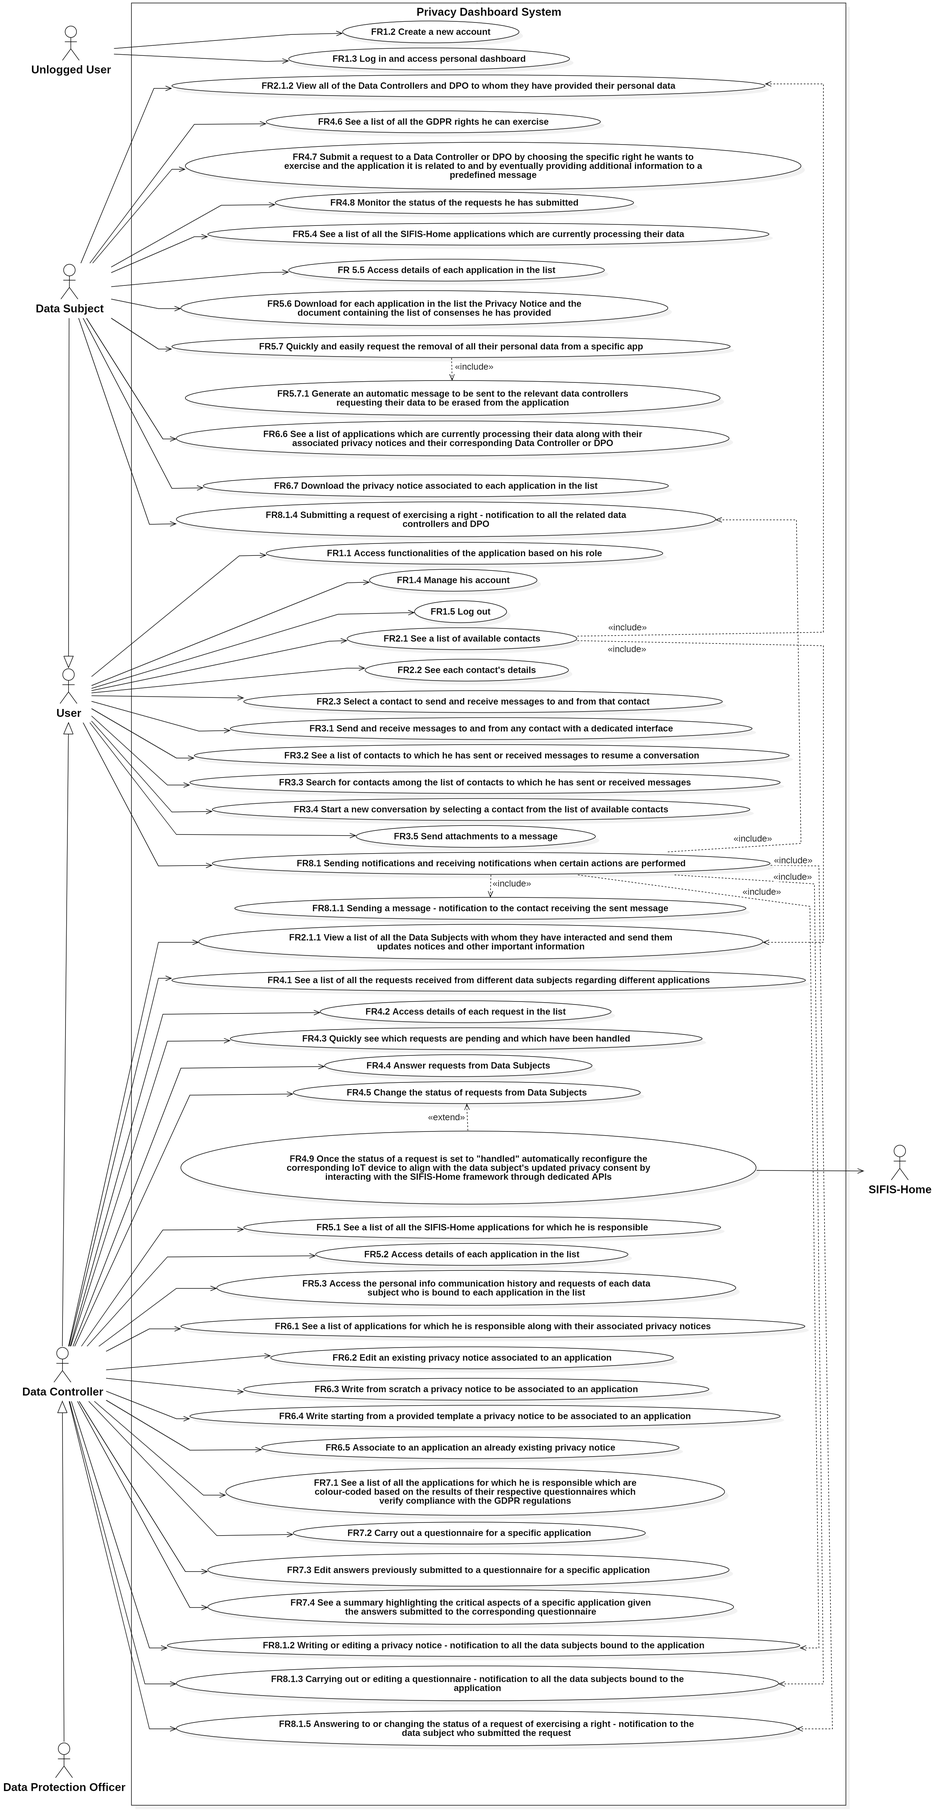
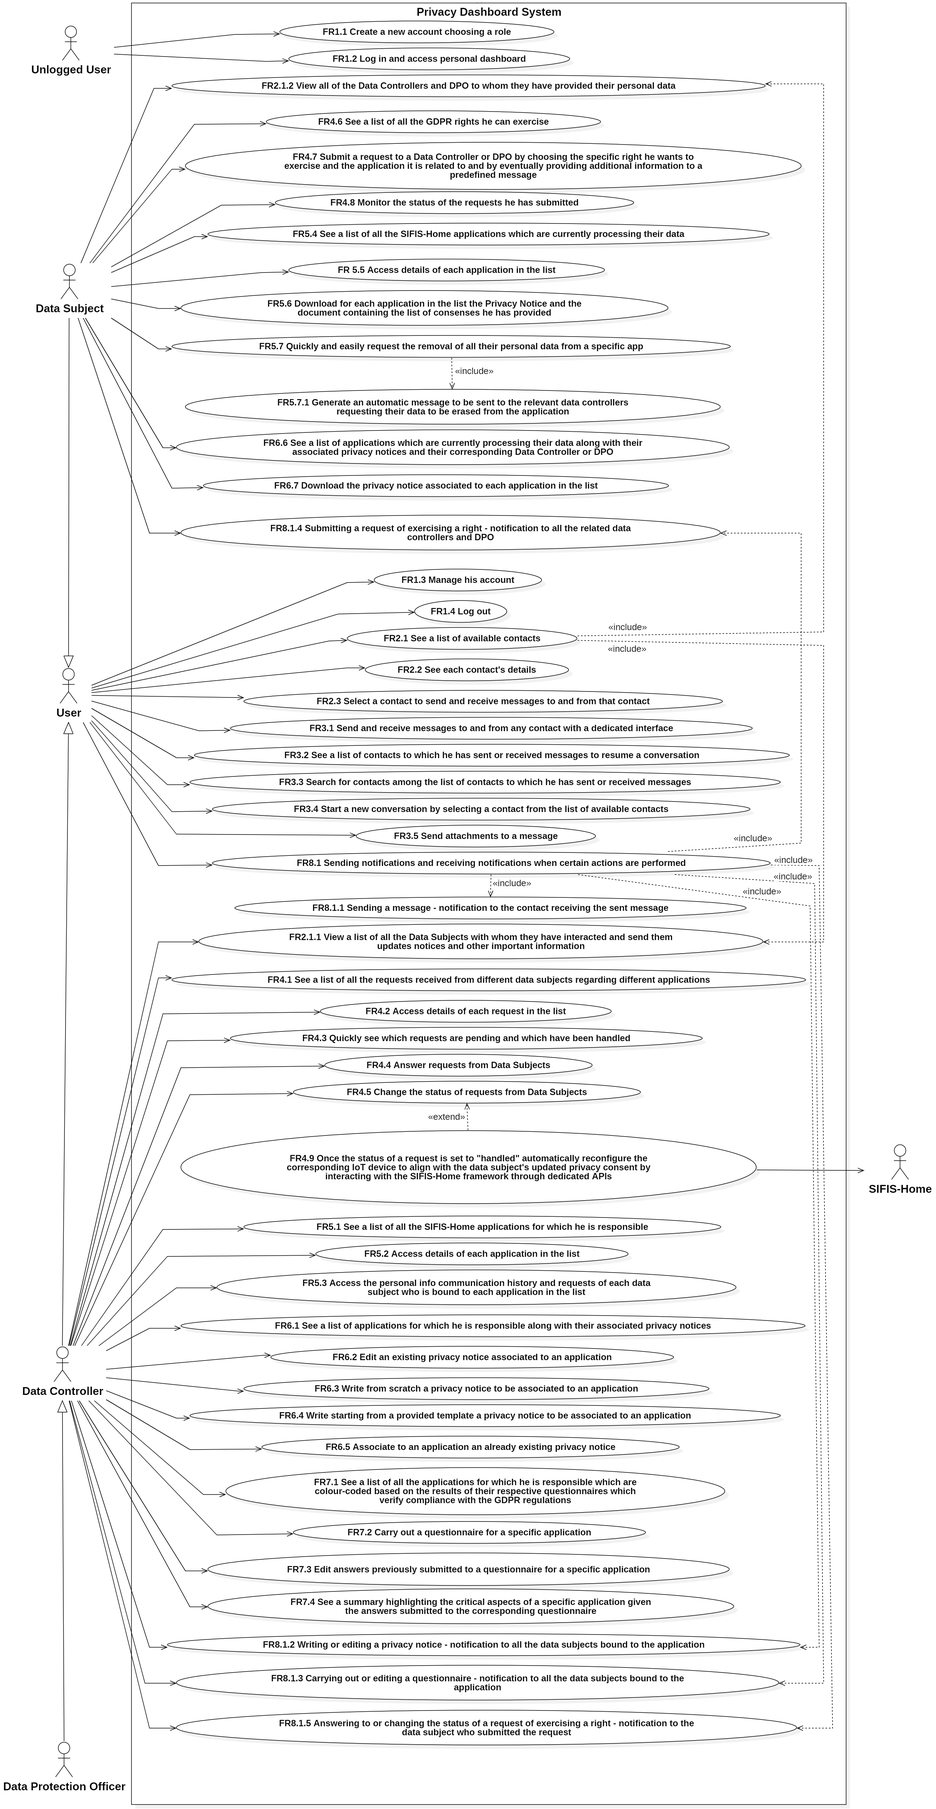
docs: started adding use cases and scenarios to requirements document

diff --git a/docs/RequirementsDocument.md b/docs/RequirementsDocument.md
@@ -15,6 +15,29 @@ A web application for dynamic privacy consent management integrated with a smart
 - [Use Case Diagram and Use Cases](#use-case-diagram-and-use-cases)
   - [Use Case Diagram](#use-case-diagram)
   - [Use Cases](#use-cases)
+    - [Use Case 1, Create a new account (UC1)](#use-case-1-create-a-new-account-uc1)
+      - [Scenario 1.1](#scenario-11)
+      - [Scenario 1.2](#scenario-12)
+      - [Scenario 1.3](#scenario-13)
+      - [Scenario 1.4](#scenario-14)
+    - [Use Case 2, Log in (UC2)](#use-case-2-log-in-uc2)
+      - [Scenario 2.1](#scenario-21)
+      - [Scenario 2.2](#scenario-22)
+      - [Scenario 2.3](#scenario-23)
+      - [Scenario 2.4](#scenario-24)
+    - [Use Case 3, Manage account (UC3)](#use-case-3-manage-account-uc3)
+      - [Scenario 3.1](#scenario-31)
+      - [Scenario 3.2](#scenario-32)
+    - [Use Case 4, Log out (UC4)](#use-case-4-log-out-uc4)
+      - [Scenario 4.1](#scenario-41)
+      - [Scenario 4.2](#scenario-42)
+    - [Use Case 5, Manage messages (UC5)](#use-case-5-manage-messages-uc5)
+      - [Scenario 5.1](#scenario-51)
+      - [Scenario 5.2](#scenario-52)
+    - [Use Case 6, Manage Rights - Data Controller or DPO (UC6)](#use-case-6-manage-rights---data-controller-or-dpo-uc6)
+      - [Scenario 6.1](#scenario-61)
+    - [Use Case 7, Manage Rights - Data Subject (UC7)](#use-case-7-manage-rights---data-subject-uc7)
+      - [Scenario 7.1](#scenario-71)
 - [Glossary](#glossary)
 - [System Design](#deployment-diagram)
 - [Deployment Diagram](#deployment-diagram)
@@ -64,11 +87,10 @@ Privacy Dashboard is a web application designed with the main goal of dynamicall
 |   ID    |                              Name                              |
 | :-----: | :------------------------------------------------------------: |
 | **FR1** |                       **Manage Accounts**                       |
-|  FR1.1  | Enable the user to access functionalities of the application based on his role, which is one of the following: Data Subject, Data Controller, Data Protection Officer. |
-|  FR1.2  | Enable the Unlogged User to create a new account.                        |
-|  FR1.3  | Enable the Unlogged User to log in and access his personal dashboard.    |
-|  FR1.4  | Enable the user to manage his account, including changing his email and password.    |
-|  FR1.5  | Enable the user to log out.    |
+|  FR1.1  | Enable the Unlogged User to create a new account choosing a role which is one of the following: Data Subject, Data Controller, Data Protection Officer. |
+|  FR1.2  | Enable the Unlogged User to log in and access his personal dashboard.    |
+|  FR1.3  | Enable the user to manage his account, including changing his email and password.    |
+|  FR1.4  | Enable the user to log out.    |
 | **FR2** |                       **Manage Contacts**                       |
 |  FR2.1  | Enable the user to see a list of available contacts. |
 |  FR2.1.1  | Enable Data Controller and DPO to view a list of all the Data Subjects with whom they have interacted and send them updates, notices, and other important information. |
@@ -141,6 +163,285 @@ Privacy Dashboard is a web application designed with the main goal of dynamicall
 ![Use Case Diagram](./../images/UseCaseDiagram.png)
 
 ### Use Cases
+
+#### Use Case 1, Create a new account (UC1)
+
+| Actors Involved  |          Unlogged User           |
+| :--------------: | :------------------------------: |
+|   Precondition   | The user doesn't have an account |
+|  Post condition  |         User registered          |
+| Nominal Scenario |           Scenario 1.1           |
+|     Variants     |               None               |
+|    Exceptions    |        Scenario 1.2, 1.3, 1.4    |
+
+##### Scenario 1.1
+
+|  Scenario 1.1  |                                                    Registration                                                    |
+| :------------: | :----------------------------------------------------------------------------------------------------------------: |
+|  Precondition  |                                          The user doesn't have an account                                          |
+| Post condition |                                                  User registered                                                   |
+|     Step#      |                                                    Description                                                     |
+|       1        |                                               User: Ask to register                                                |
+|       2        |                                System: ask username, name, surname, role, email, password                          |
+|       2        |                               User: Provide username, name, surname, role, email, password                         |
+|       3        |                                System: Read username, name, surname, role, email, password                         |
+|       4        | System: Check that the provided username or email aren't associated with any account yet. The username and email haven't been used yet. |
+|       5        |                               System: Create a new user and store their information                                |
+
+##### Scenario 1.2
+
+|  Scenario 1.2  |                                                          Username or email already in use                                                 |
+| :------------: | :---------------------------------------------------------------------------------------------------------------------------------------: |
+|  Precondition  |                                                          The user has an account                                                          |
+| Post condition |                                                            Registration failed                                                            |
+|     Step#      |                                                                Description                                                                |
+|       1        |                                                           User: Ask to register                                                           |
+|       2        |                                            System: ask username, name, surname, role, email, password                                     |
+|       2        |                                           User: Provide username, name, surname, role, email, password                                    |
+|       3        |                                           System: Read username, name, surname, role, email, password                                     |
+|       4        | System: Check that the provided username or email aren't associated with any account yet. The username or email have been used already. Provide error message |
+
+##### Scenario 1.3
+
+|  Scenario 1.3  |                                    User provides empty parameters                                     |
+| :------------: | :---------------------------------------------------------------------------------------------------: |
+|  Precondition  |                                   The user doesn't have an account                                    |
+| Post condition |                                          Registration failed                                          |
+|     Step#      |                                              Description                                              |
+|       1        |                                         User: Ask to register                                         |
+|       2        |                          System: ask username, name, surname, role, email, password                   |
+|       2        |                         User: Provide username, name, surname, role, email, password                  |
+|       3        |                         System: Read username, name, surname, role, password                          |
+|       4        | System: Check that all parameters are filled. At least one parameter is empty. Provide error message. |
+
+##### Scenario 1.4
+
+|  Scenario 1.4  |                                    Data Protection Officer already exists                             |
+| :------------: | :---------------------------------------------------------------------------------------------------: |
+|  Precondition  |                                   The user doesn't have an account                                    |
+| Post condition |                                          Registration failed                                          |
+|     Step#      |                                              Description                                              |
+|       1        |                                         User: Ask to register                                         |
+|       2        |                          System: ask username, name, surname, role, email, password                   |
+|       2        |                         User: Provide username, name, surname, role = DPO, email, password            |
+|       3        |                         System: Read username, name, surname, role = DPO, password                    |
+|       4        | System: Check that DPO doesn't exist yet. The DPO has been created already. Provide error message.    |
+
+#### Use Case 2, Log in (UC2)
+
+| Actors Involved  |    Unlogged User        |
+| :--------------: | :---------------------: |
+|   Precondition   | User U is not logged in |
+|  Post condition  |     U is logged in      |
+| Nominal Scenario |      Scenario 2.1       |
+|     Variants     |          None           |
+|    Exceptions    | Scenario 2.2, 2.3, 2.4  |
+
+##### Scenario 2.1
+
+|  Scenario 2.1  |                                       Successful Login                                       |
+| :------------: | :------------------------------------------------------------------------------------------: |
+|  Precondition  |                                       U is registered                                        |
+| Post condition |                                        U is logged in                                        |
+|     Step#      |                                         Description                                          |
+|       1        |                              System: Ask for username, password                              |
+|       2        |                              User: Provide username, password.                               |
+|       3        |                               System: Read username, password.                               |
+|       4        |                            System: Given username, find the user.                            |
+|       5        | System: Retrieve password, compare with the one provided. Passwords match, user is auhorized |
+
+##### Scenario 2.2
+
+|  Scenario 2.2  |                                             Wrong password                                              |
+| :------------: | :-----------------------------------------------------------------------------------------------------: |
+|  Precondition  |                                             U is registered                                             |
+| Post condition |                                             U not logged in                                             |
+|     Step#      |                                               Description                                               |
+|       1        |                                     System: Ask username password.                                      |
+|       2        |                                    User: Provide username, password.                                    |
+|       3        |                                    System: Read username, password.                                     |
+|       4        |                                 System: Given username, find the user.                                  |
+|       5        | System: Retrieve password, compare with the one provided. Passwords do not match, user is not auhorized |
+
+##### Scenario 2.3
+
+| Scenario 2.3   |                              User not registered                              |
+| -------------- | :---------------------------------------------------------------------------: |
+| Precondition   |                              U is not registered                              |
+| Post condition |                              User not logged in                               |
+| Step#          |                                  Description                                  |
+| 1              |                        System: Ask username password.                         |
+| 2              |                       User: Provide username, password.                       |
+| 3              |                        System: Read username, password.                       |
+| 4              | System: Given username, find the user. User is not found. User not authorized |
+
+##### Scenario 2.4
+
+| Scenario 2.4   |                     User already logged in                      |
+| -------------- | :-------------------------------------------------------------: |
+| Precondition   |                         U is registered                         |
+| Post condition |                         U is logged in                          |
+| Step#          |                           Description                           |
+| 1              |                 System: Ask username password.                  |
+| 2              |                User: Provide username, password.                |
+| 3              | System: Read username, password. The user is already logged in. |
+| 4              |                 System: Return an error message                 |
+
+#### Use Case 3, Manage account (UC3)
+
+| Actors Involved  |        User             |
+| :--------------: | :---------------------: |
+|   Precondition   | User U is logged in     |
+|  Post condition  |     U changed his account informations |
+| Nominal Scenario |      Scenario 3.1       |
+|     Variants     |          None           |
+|    Exceptions    | Scenario 3.2            |
+
+##### Scenario 3.1
+
+|  Scenario 3.1  |                                           User changes account informations                                        |
+| :------------: | :----------------------------------------------------------------------------------------------------------------: |
+|  Precondition  |                                          User U is logged in                                                       |
+| Post condition |                                          U changed his account informations                                        |
+|     Step#      |                                                    Description                                                     |
+|       1        |                                               User: Ask to change account informations                             |
+|       2        |                                System: ask new username, name, surname, email, password                            |
+|       2        |                               User: Provide username, name, surname, email, password                         |
+|       3        |                                System: Read username, name, surname, email, password                         |
+|       4        | System: Check that the provided username or email aren't associated with any account yet. The username and email haven't been used yet. |
+|       5        |                               System: Update user's informations                               |
+
+##### Scenario 3.2
+
+|  Scenario 3.2  |                                            Username or email already in use                                       |
+| :------------: | :----------------------------------------------------------------------------------------------------------------: |
+|  Precondition  |                                          User U is logged in                                                       |
+| Post condition |                                         Account's informations update failed                                         |
+|     Step#      |                                                    Description                                                     |
+|       1        |                                               User: Ask to change account informations                             |
+|       2        |                                System: ask new username, name, surname, email, password                            |
+|       2        |                               User: Provide username, name, surname, email, password                         |
+|       3        |                                System: Read username, name, surname, email, password                         |
+|       4        | System: Check that the provided username or email aren't associated with any account yet. The username or email have been used already. Provide error message |
+
+#### Use Case 4, Log out (UC4)
+
+| Actors Involved  |        User        |
+| :--------------: | :----------------: |
+|   Precondition   |   User U exists    |
+|  Post condition  | U is not logged in |
+| Nominal Scenario |    Scenario 4.1    |
+|     Variants     |                    |
+|    Exceptions    |    Scenario 4.2    |
+
+##### Scenario 4.1
+
+| Scenario 4.1   |                   Logout                    |
+| -------------- | :-----------------------------------------: |
+| Precondition   |               U is logged in                |
+| Post condition |               U not logged in               |
+| Step#          |                 Description                 |
+| 1              |             User: Ask to logout             |
+| 2              |      System: Check that U is logged in      |
+| 3              |   System: remove user authorization for U   |
+| 4              | System: Show a logout confirmation message. |
+
+##### Scenario 4.2
+
+| Scenario 4.2   |                   User already logged out                    |
+| -------------- | :----------------------------------------------------------: |
+| Precondition   |                      U is not logged in                      |
+| Post condition |                      U is not logged in                      |
+| Step#          |                         Description                          |
+| 1              |                     User: Ask to logout                      |
+| 2              |              System: Check that U is logged in               |
+| 3              | System: U hasn't performed login yet. Show an error message. |
+
+#### Use Case 5, Manage Messages (UC5)
+
+| Actors Involved  |        User        |
+| :--------------: | :----------------: |
+|   Precondition   |   User U is logged in    |
+|  Post condition  | U exchanged messages with other users |
+| Nominal Scenario |    Scenario 5.1    |
+|     Variants     |    Scenario 5.2    |
+|    Exceptions    |        |
+
+##### Scenario 5.1
+
+| Scenario 5.1   |                   User sends a message                 |
+| -------------- | :-----------------------------------------: |
+| Precondition   |               U is logged in                |
+| Post condition |               U exchanged messages with other users               |
+| Step#          |                 Description                 |
+| 1              |             User: Selects a contact to send a message by looking in the list of available contacts or searching for a contact   |
+| 2              |      System: Open messaging interface with the selected contact      |
+| 3              |   User: Send a message to the selected contact with an optional attachment   |
+| 4              |   System: Save the message and the attachment if any and send a notification to the contact     |
+
+##### Scenario 5.2
+
+| Scenario 5.2   |                   User receives a message                 |
+| -------------- | :-----------------------------------------: |
+| Precondition   |               U is logged in                |
+| Post condition |               U exchanged messages with other users               |
+| Step#          |                 Description                 |
+| 1              |             User: Sees notification of received message from a contact and opens the messaging interface  |
+| 2              |      System: Open messaging interface with the selected contact with the received message     |
+| 3              |   User: Reads the received message from the selected contact with an optional attachment to be downloaded  |
+| 4              |   System: Prompts the user to download the attachment if any   |
+
+#### Use Case 6, Manage Rights - Data Controller or DPO (UC6)
+
+| Actors Involved  |        Data Controller or DPO       |
+| :--------------: | :----------------: |
+|   Precondition   |   User U is logged in as Data Controller or DPO    |
+|  Post condition  | U has handled a request |
+| Nominal Scenario |    Scenario 6.1    |
+|     Variants     |                    |
+|    Exceptions    |                    |
+
+##### Scenario 6.1
+
+| Scenario 6.1   |                   Data Controller or DPO handles a request                 |
+| -------------- | :-----------------------------------------: |
+| Precondition   |               U is logged in as Data Controller or DPO                |
+| Post condition |               U has handled a request               |
+| Step#          |                 Description                 |
+| 1              |             Data Controller or DPO: Selects a request to handle in the list of requests or from the received notification   |
+| 2              |      System: Open the details of the selected request      |
+| 3              |   Data Controller or DPO: Write an answer to the request   |
+| 4              |   System: Save the answer and send a notification to the requester     |
+| 5              |   Data Controller or DPO: Change the status of the request to "handled"     |
+| 6              |   System: Save the new status of the request and send a notification to the requester   |
+| 7              |   System: Reconfigure the IoT device to align with the data subject's updated privacy consent   |
+
+#### Use Case 7, Manage Rights - Data Subject (UC7)
+
+| Actors Involved  |        Data Subject       |
+| :--------------: | :----------------: |
+|   Precondition   |   User U is logged in as Data Subject    |
+|  Post condition  | U has sent a request |
+| Nominal Scenario |    Scenario 7.1    |
+|     Variants     |                    |
+|    Exceptions    |                    |
+
+##### Scenario 7.1
+
+| Scenario 7.1   |                   Data Subject sends a request                 |
+| -------------- | :-----------------------------------------: |
+| Precondition   |               U is logged in as Data Subject                |
+| Post condition |               U has sent a request               |
+| Step#          |                 Description                 |
+| 1              |             Data Subject: Selects a right to exercise in the list of rights and selects and application to exercise the right to  |
+| 2              |      System: Open the details of the selected request      |
+| 3              |   Data Subject: Optionally provide additional information to a predefined message   |
+| 4              |   System: Save the request and send a notification to the related Data Controller or DPO     |
+| 5              |   Data Subject: See the request in the list of pending requests     |
+
+
+
+
 
 ## Glossary
 
